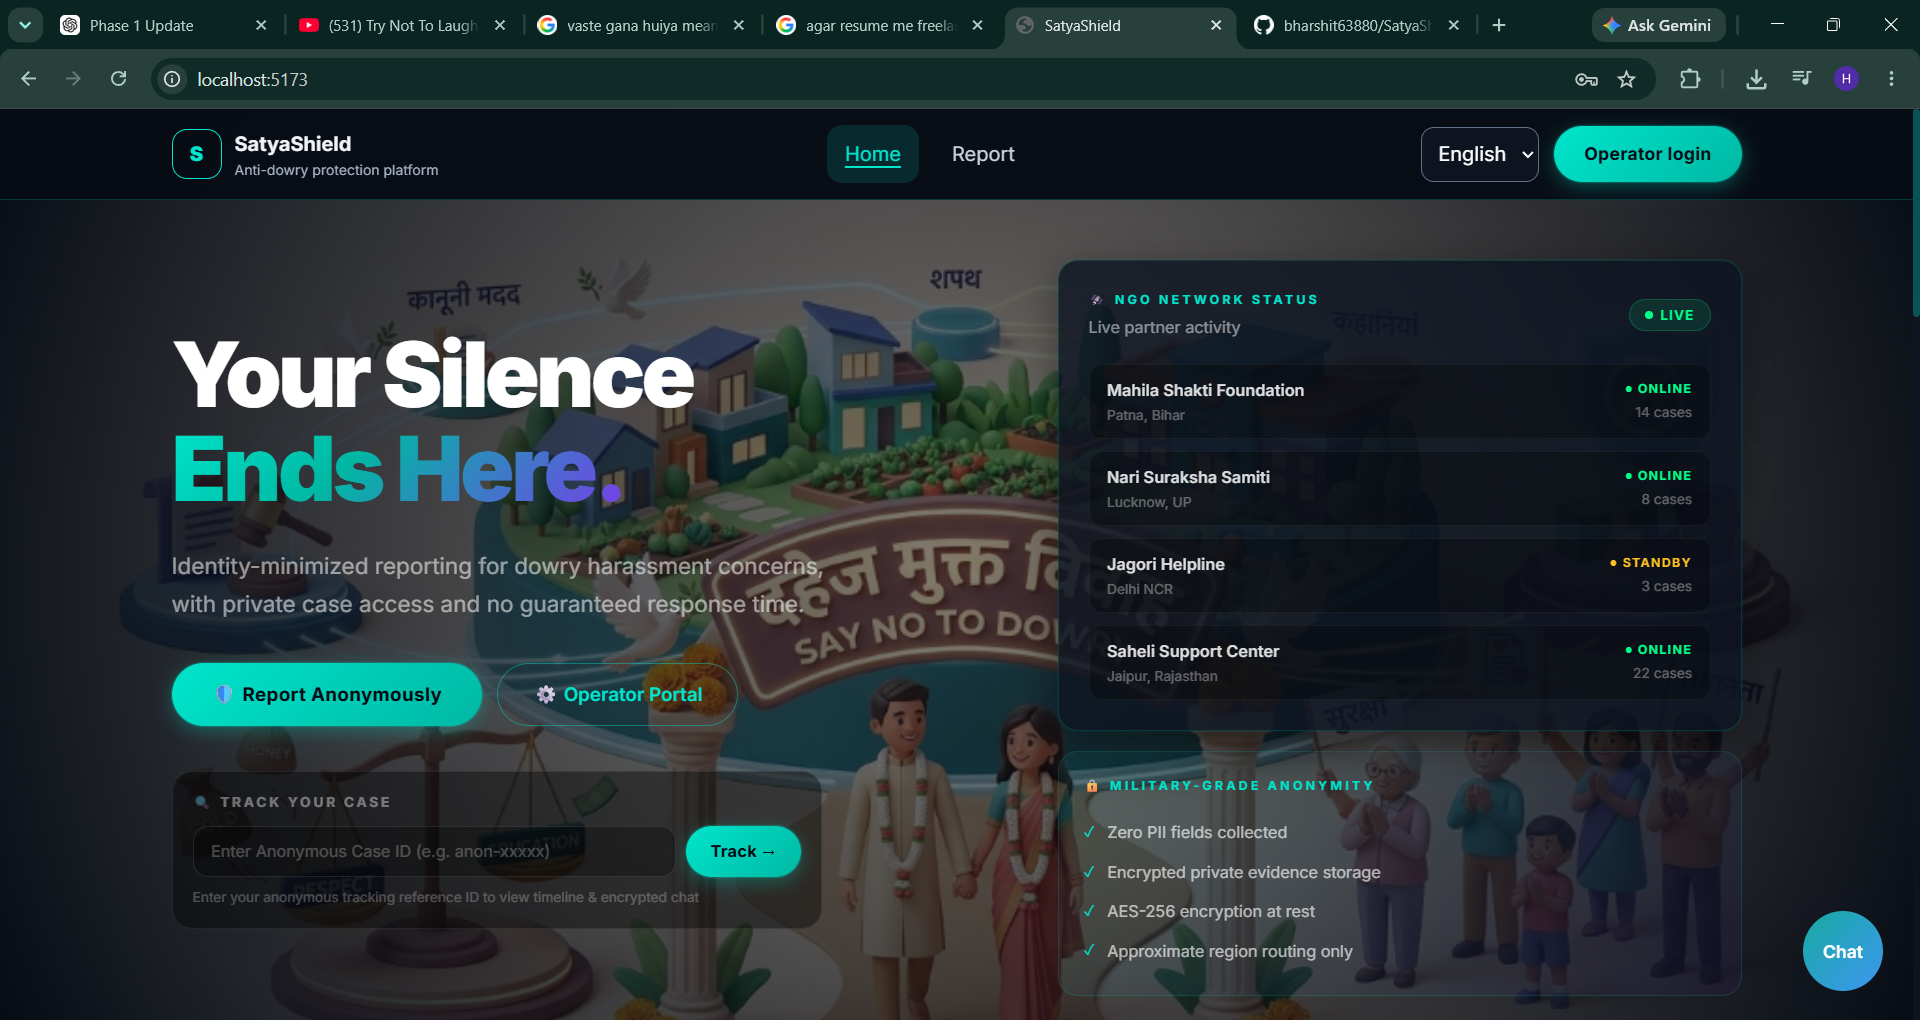
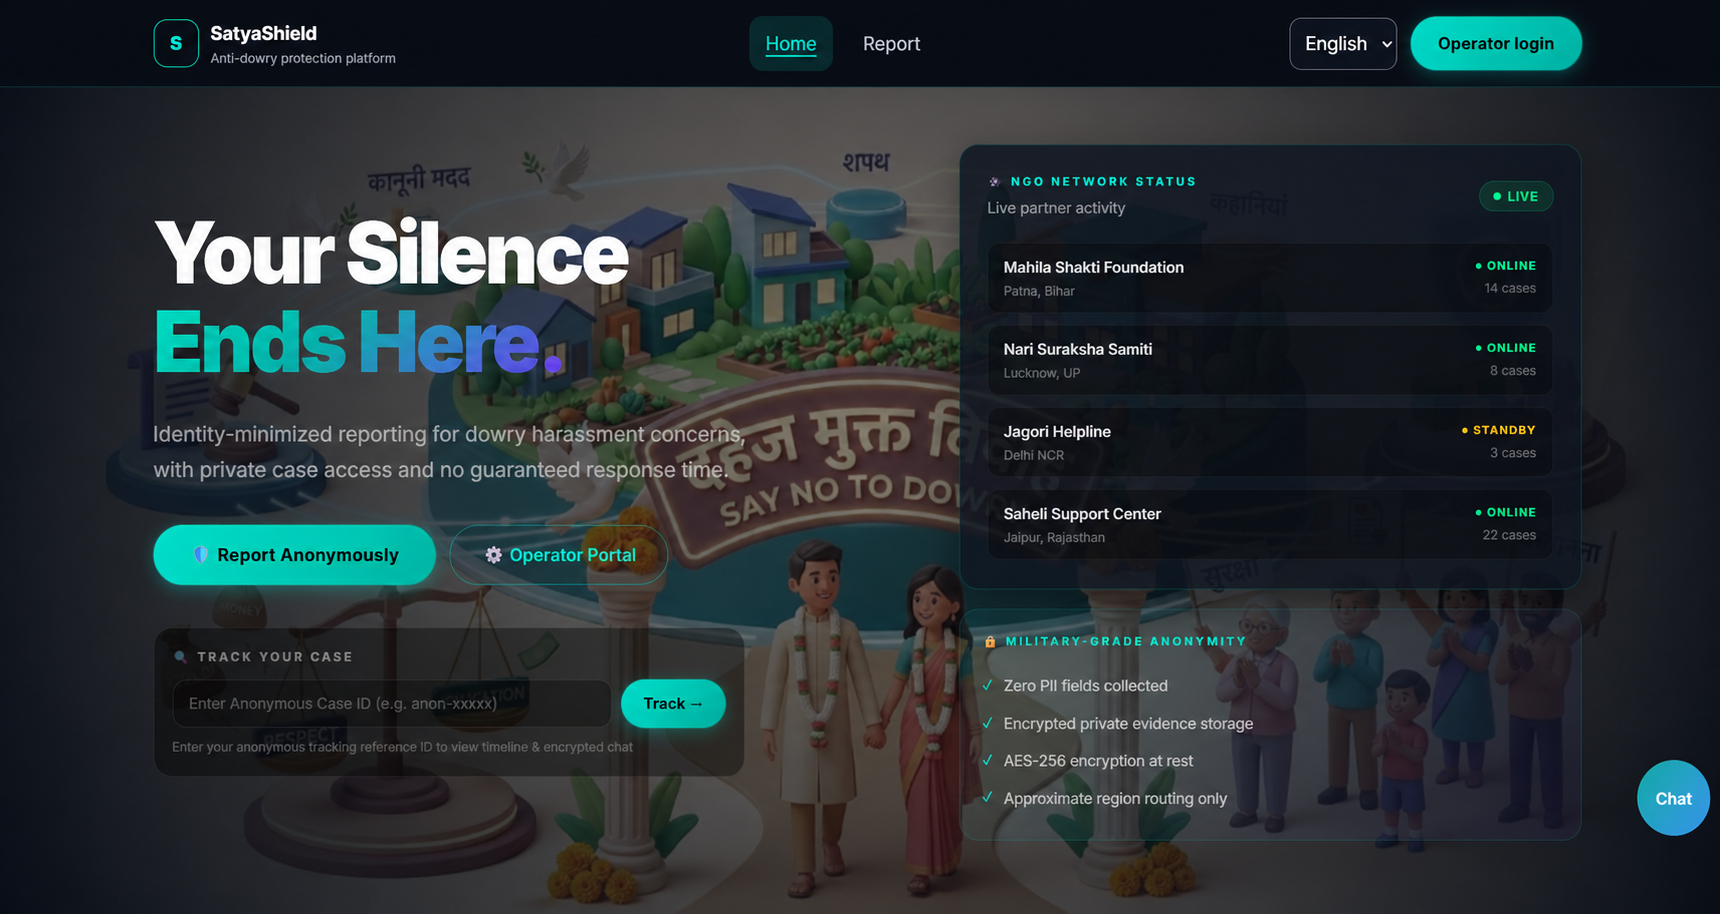
Polish project documentation and screenshots

diff --git a/README.md b/README.md
@@ -1,25 +1,18 @@
 # SatyaShield
 
-SatyaShield is a privacy-focused MERN application for reporting dowry harassment, tracking a case with complaint-scoped credentials, and coordinating authorized NGO, investigator, and administrative workflows.
+SatyaShield is a privacy-focused MERN application for reporting dowry harassment, tracking cases with complaint-scoped credentials, and coordinating authorized NGO, investigator, and administrative workflows.
 
 > SatyaShield is not an emergency-dispatch service. It does not guarantee police, ambulance, NGO, message-delivery, or response outcomes.
 
-## Project progress
+## Development status
 
-### Engineering roadmap: approximately 65% complete
+**Approximately 65% complete · Approximately 35% remaining**
 
-This percentage measures the approved 16-phase engineering roadmap—not production readiness.
+The core reporting, security, evidence, staff authentication, NGO routing, case triage, escalation, realtime chat, and internal SOS capabilities are implemented and runtime-tested.
 
-| Work area | Status |
-|---|---|
-| Phases 1–10 | Verified with dedicated MongoDB Atlas runtime tests |
-| Phase 11 | Accessibility, Quick Exit, inactivity locking, and localization foundations implemented; full bilingual migration and full-stack browser E2E remain incomplete |
-| Phases 12–16 | Not started |
-| Production readiness | Not approved |
+Remaining work includes complete English and Hindi coverage, full browser-driven end-to-end testing, manual accessibility review, notification-provider integration, reviewed legal-information content, CI and security automation, production infrastructure hardening, and final readiness validation.
 
-Completed and verified work includes reporter access security, resource-level authorization, the encrypted evidence vault, privacy hardening, staff authentication and MFA, NGO routing, deterministic triage, escalation scheduling, secure realtime chat, and internal-only SOS workflows.
-
-Remaining roadmap work includes complete English/Hindi coverage, full browser-driven E2E and manual accessibility review, notification-provider architecture, reviewed legal-information content, CI/security automation, production infrastructure hardening, and the final readiness review.
+> **Current status:** Active development. SatyaShield is not production-ready.
 
 ## Screenshots
 
@@ -39,17 +32,17 @@ Remaining roadmap work includes complete English/Hindi coverage, full browser-dr
 
 - Complaint-scoped reporter case ID and one-time access secret.
 - Only a keyed reporter-secret hash is stored.
-- Reporter and staff authentication remain separate.
+- Separate reporter and staff authentication.
 - Exact-case authorization for reporters, NGOs, investigators, admins, and superadmins.
 - Encrypted private evidence storage with lifecycle and integrity controls.
 - HttpOnly refresh cookies, CSRF protection, explicit CORS, token rotation, and reuse detection.
 - TOTP MFA, recovery codes, account-state enforcement, and session revocation.
 - Deterministic NGO eligibility, routing, capacity, assignment, and revocation.
-- Structured deterministic triage with Critical-case human review.
+- Structured deterministic triage with human review for critical cases.
 - Versioned internal deadlines, escalation policies, and idempotent scheduler leasing.
 - Complaint-scoped Socket.IO chat with persistence and immediate authorization revocation.
 - Explicit SOS confirmation and cancellation with optional encrypted, minimized location.
-- Internal-only SOS routing; external emergency delivery remains disabled.
+- Internal-only SOS routing with external emergency delivery disabled.
 - Reviewable helpline architecture with no unverified production entries.
 - Privacy-safe logs and audit allowlists.
 - External AI disabled and fail-closed.
@@ -58,7 +51,7 @@ Chat is not end-to-end encrypted. Evidence is not claimed to be malware-free. Co
 
 ## Technology
 
-- React 18, Vite, Tailwind CSS, React Router
+- React 18, Vite, Tailwind CSS, and React Router
 - Node.js and Express
 - MongoDB Atlas with Mongoose
 - Socket.IO
@@ -67,7 +60,7 @@ Chat is not end-to-end encrypted. Evidence is not claimed to be malware-free. Co
 
 ## Local setup
 
-Requirements:
+### Requirements
 
 - Node.js 20.12 or newer
 - npm
@@ -108,14 +101,14 @@ npm run test:e2e --workspace client
 
 Current recorded verification:
 
-- MongoDB Atlas Phase 1–10 suites: 9/9 passed.
+- MongoDB Atlas end-to-end runtime suites: 9/9 passed.
 - Local backend suite: 44 passed.
 - Client contract suite: 15/15 passed.
-- Focused desktop/mobile Chromium E2E and accessibility suite: 16/16 passed.
-- Automated serious/critical accessibility findings on tested public routes: zero.
+- Focused desktop and mobile Chromium E2E and accessibility suite: 16/16 passed.
+- Automated serious or critical accessibility findings on tested public routes: zero.
 - Deterministic MFA authenticated-tag tamper trials: 5,000/5,000 passed.
 
-Phase 11 is not fully verified because complete bilingual migration and the required full-stack browser flows remain pending.
+The bilingual interface and complete browser workflow are not yet fully verified.
 
 ## Important limitations
 
@@ -133,12 +126,12 @@ Phase 11 is not fully verified because complete bilingual migration and the requ
 
 ```text
 SatyaShield/
-├── client/   # React frontend, browser tests, accessibility and UI contracts
-├── server/   # Express API, MongoDB models, security services and runtime tests
-└── docs/
-    └── screenshots/
+|-- client/   # React frontend, browser tests, accessibility and UI contracts
+|-- server/   # Express API, MongoDB models, security services and runtime tests
+`-- docs/
+    `-- screenshots/
 ```
 
 ## Responsible development
 
-Use dedicated test databases and fake adapters. Do not contact real emergency services or helplines during automated testing. Do not enable external AI or external SOS delivery without a separately reviewed and verified phase.
+Use dedicated test databases and fake adapters. Do not contact real emergency services or helplines during automated testing. Do not enable external AI or external SOS delivery without a separate security and privacy review.
